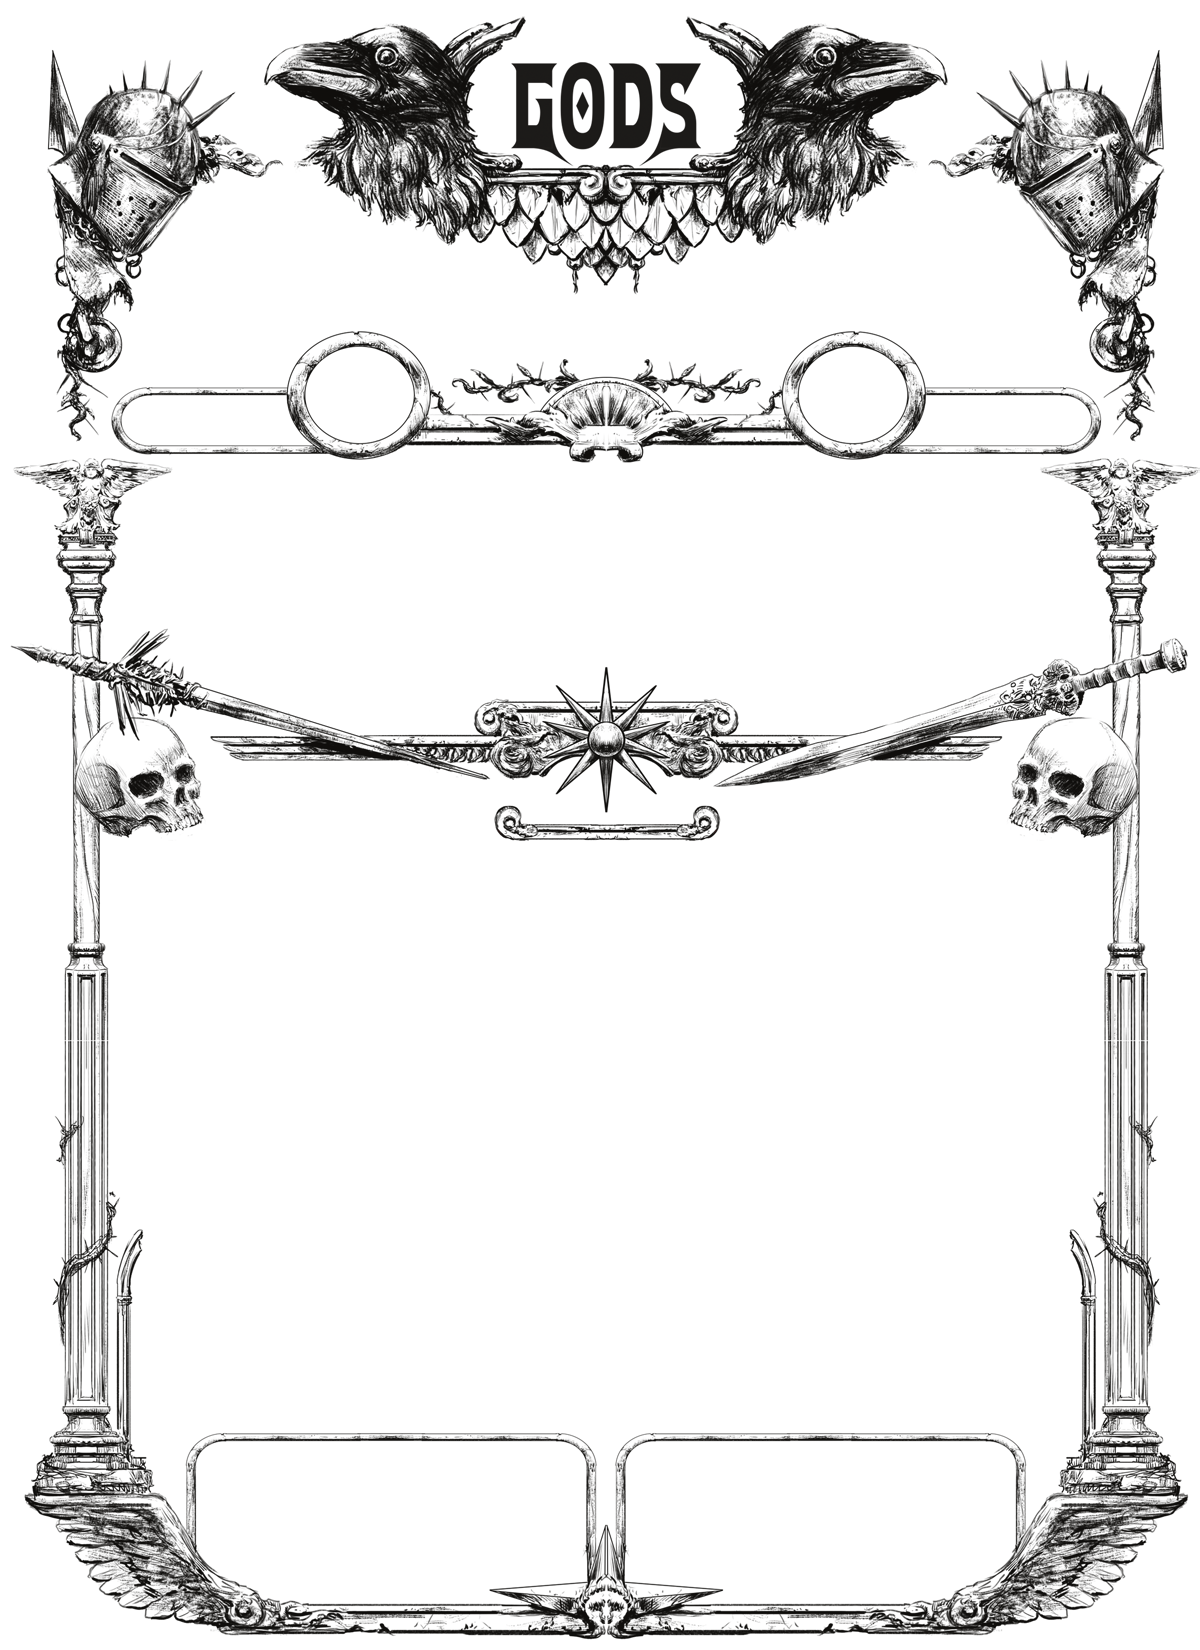
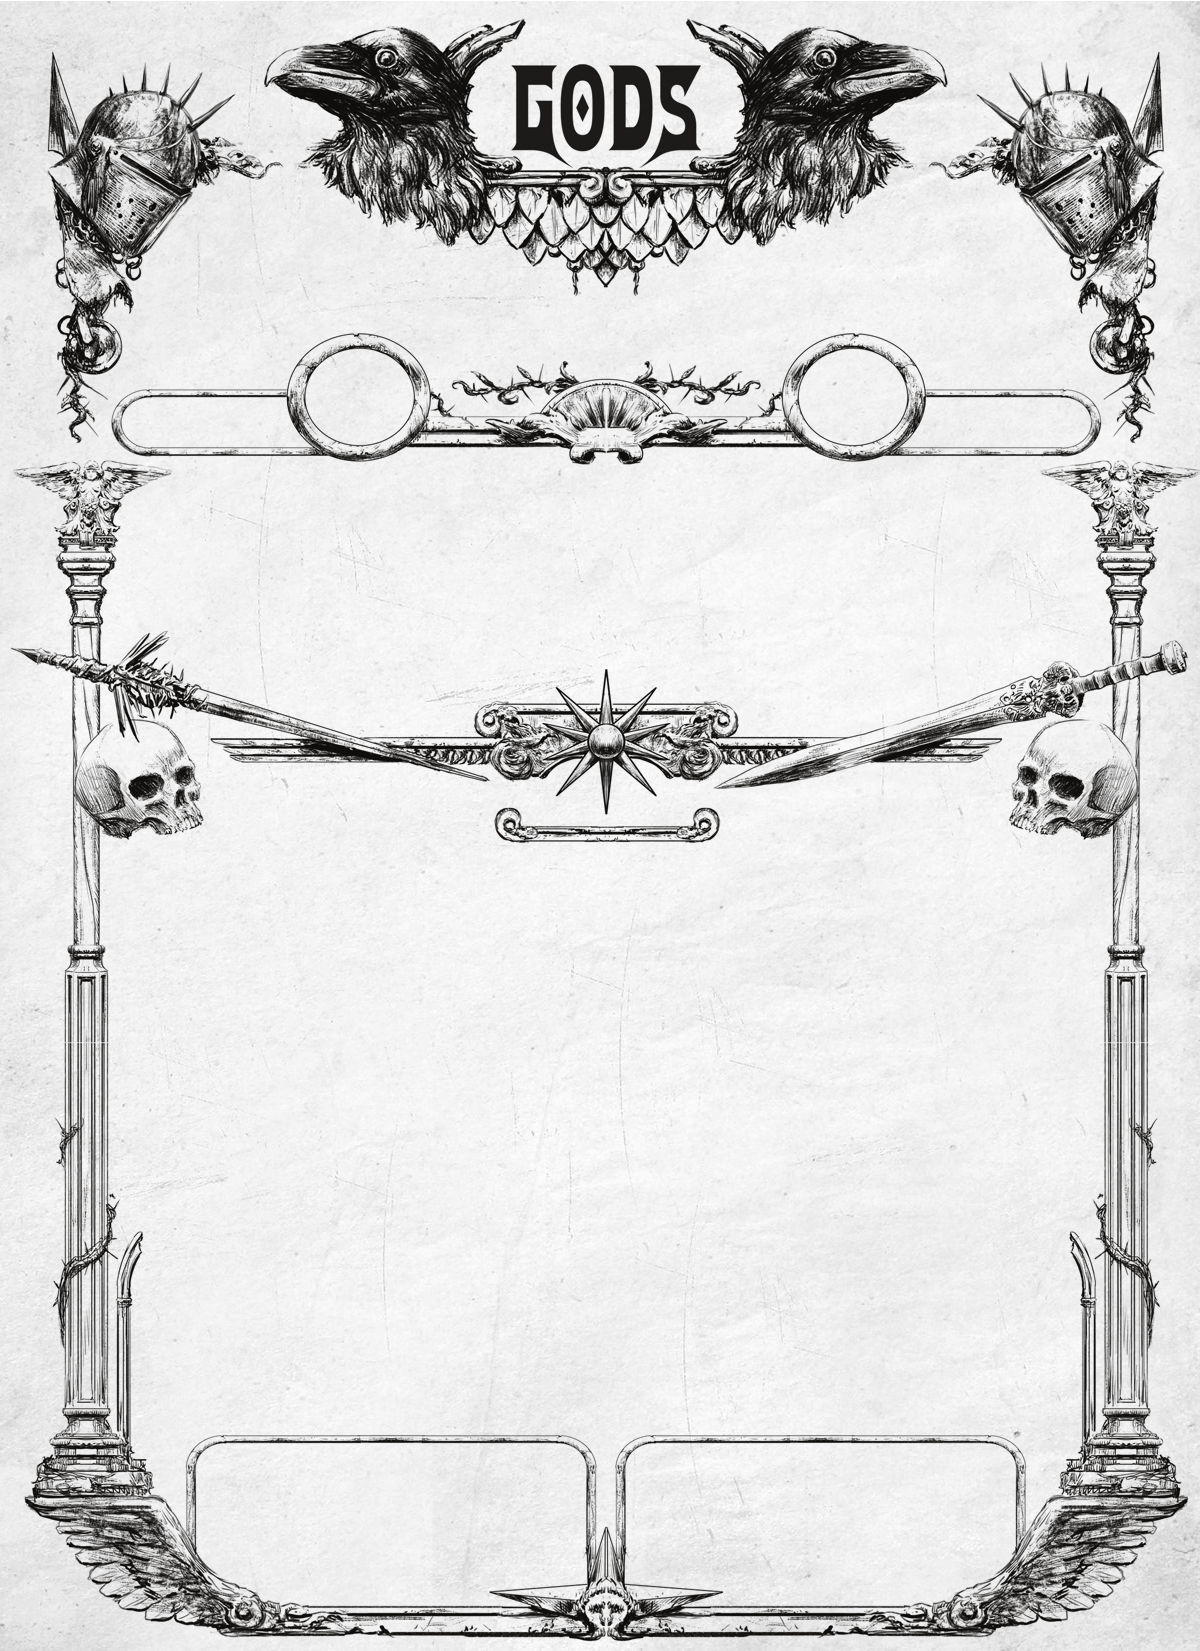
[FEATURE] Character Display improved

Changed region(s): [[0.0, 0.0, 1.0, 1.0], [0.6783, 0.1855, 0.74, 0.2164]]

diff --git a/public/css/character.css b/public/css/character.css
@@ -6,7 +6,7 @@ html{
     position: relative;
     height: 1700px;
     width: 1200px;
-    background-image: url("/images/yes.png");
+    background-image: url("/images/background.png");
     background-repeat: no-repeat;
   }
   
@@ -16,13 +16,26 @@ html{
     left: 0;
     height: 1700px;
     width: 1200px;
-    background-image: url("/images/background.png");
-    background-repeat: no-repeat;
     z-index: 1; /* Set a higher z-index to make it overlap */
     display: flex;
     flex-direction: column;
     word-wrap: break-word;
   }
+
+  #main-body{
+    height: 100%;
+    max-height: none;
+    display: flex;
+    flex-direction: column;
+    min-width: 0;
+    word-wrap: break-word;
+  }
+
+  @media (min-width: 1200px){
+  .container, .container-lg, .container-md, .container-sm, .container-xl {
+    max-width: none;
+  }
+}
   
   .nomage {
     margin-top: 225px;
@@ -203,9 +216,9 @@ html{
   
   #original-content {
     position: relative;
-    top: 50px;
     outline: none;
     background-color: none;
+    height: 100%;
   }
   
   .ui-controls {

diff --git a/app.js b/app.js
@@ -1,6 +1,5 @@
 import dotenv from 'dotenv';
 import express, { static as expressStatic } from 'express';
-import helmet from 'helmet';
 import userRoutes from './routes/userRoutes.js';
 import backendRoutes from './routes/backendRoutes.js';
 import authRoutes from './routes/authRoutes.js';
@@ -14,7 +13,6 @@ import { PrismaSessionStore } from '@quixo3/prisma-session-store';
 dotenv.config({ path: `.env.local`, override: true });
 
 const app = express();
-app.use(helmet());
 
 app.use(
   expressSession({
